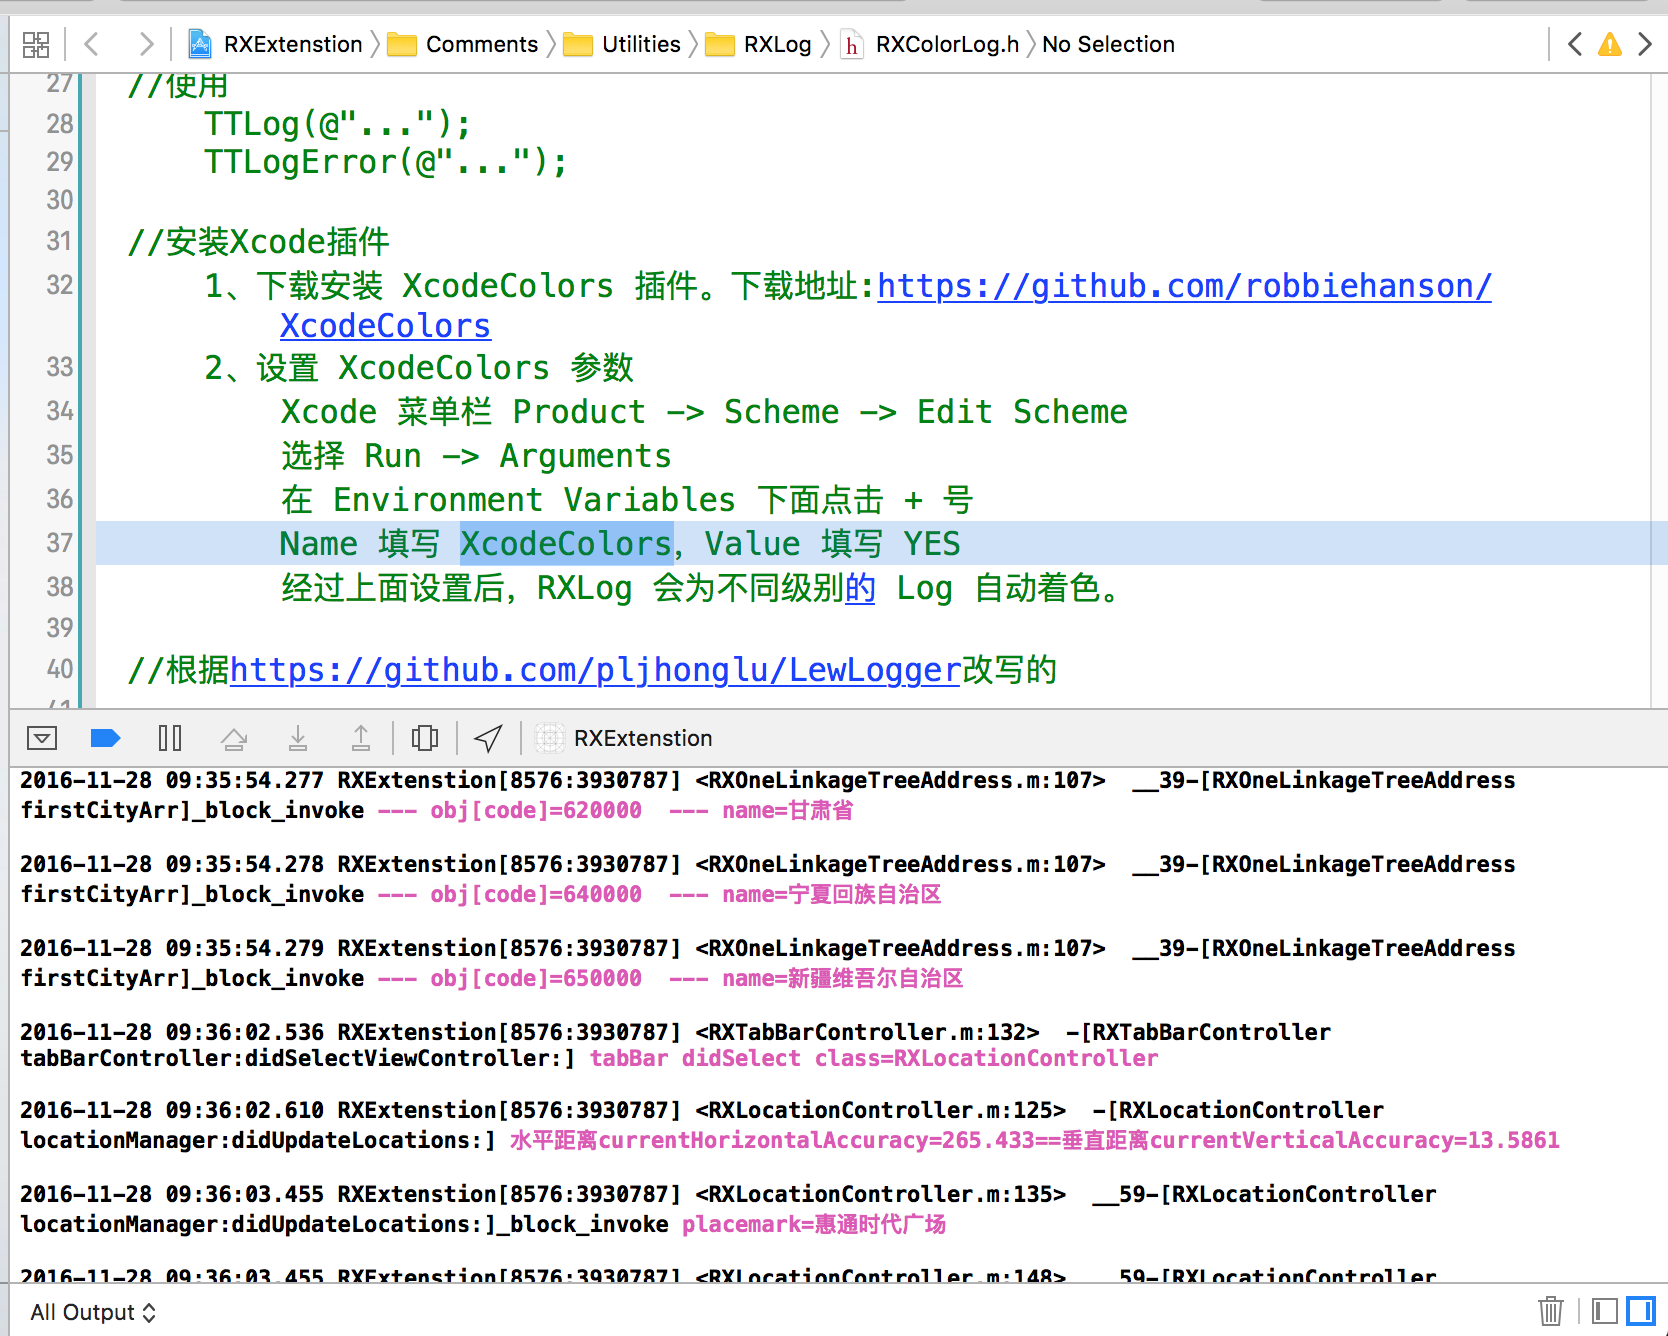
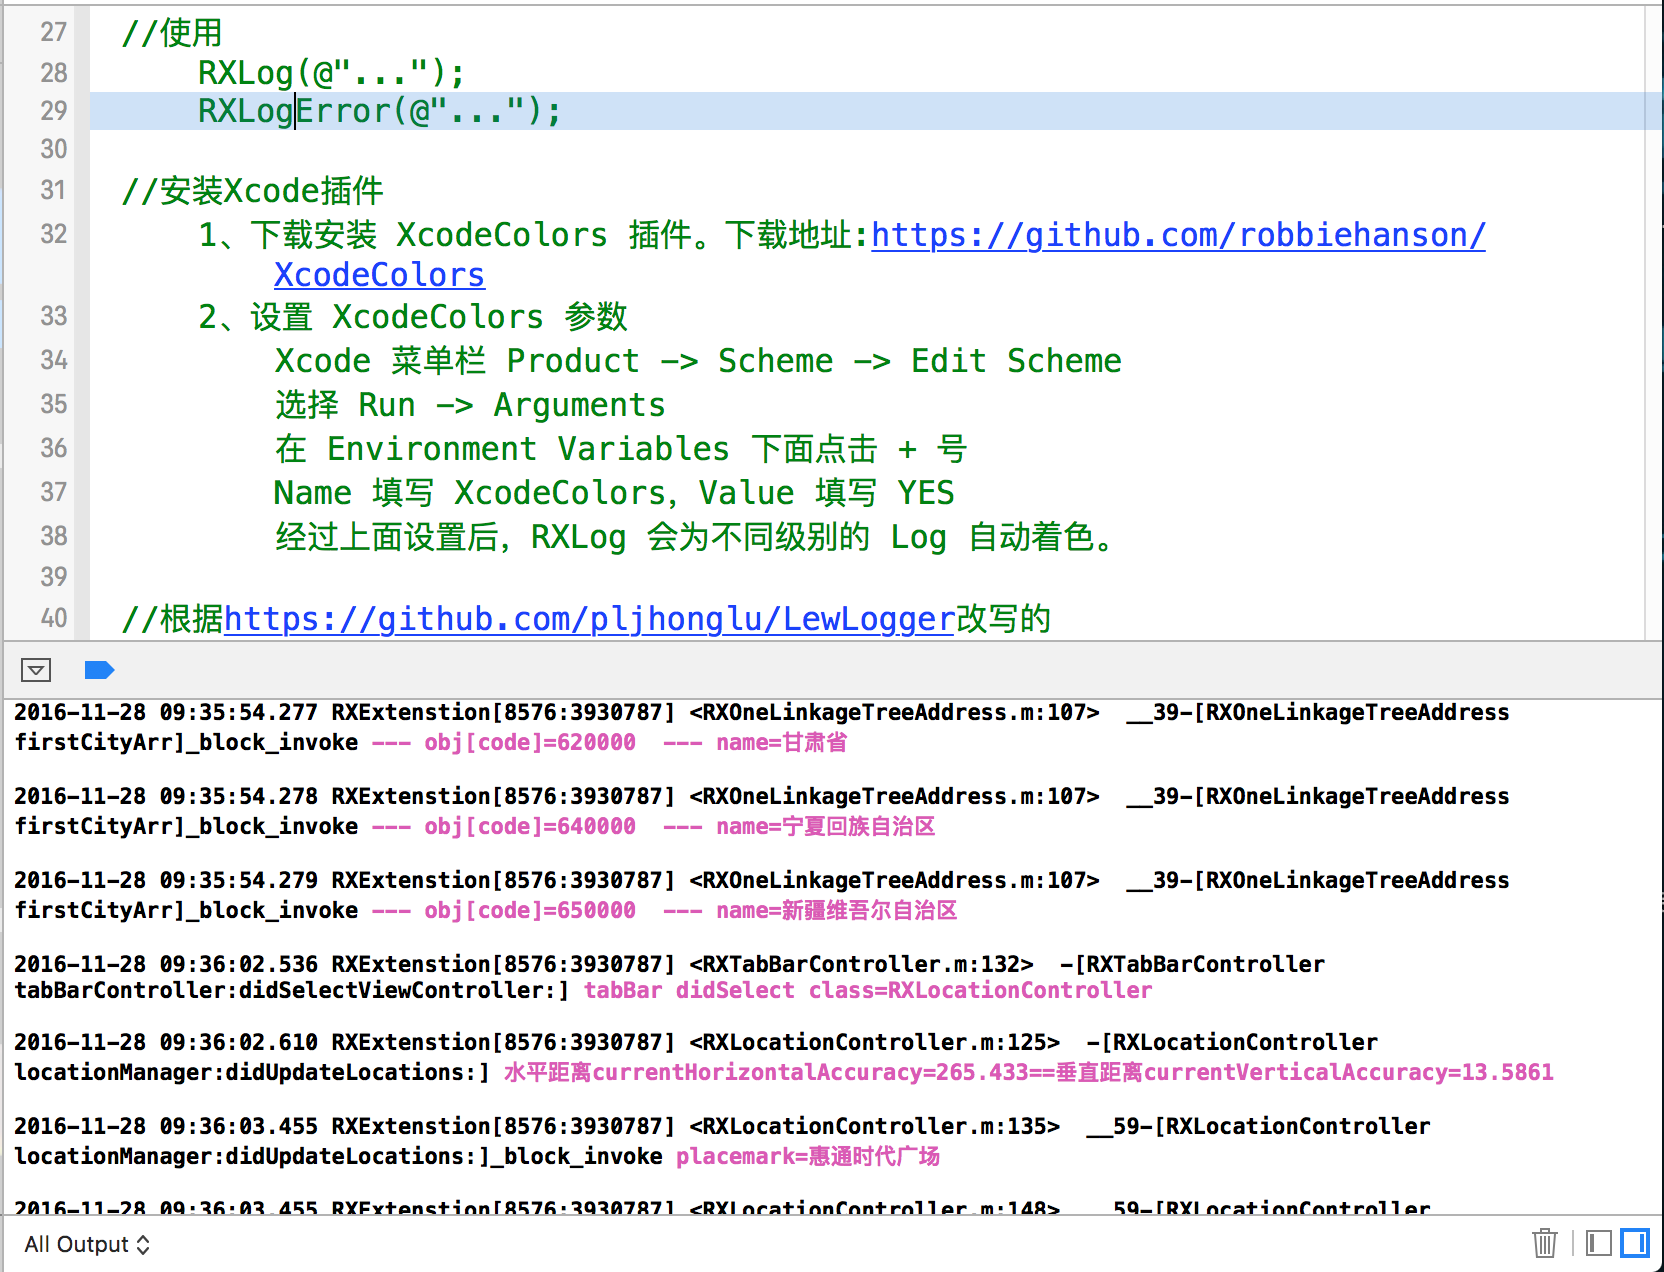
RXLog

Changed region(s): [[0.0, 0.0, 1.0, 1.0]]

diff --git a/RXExtenstion/Comments/Utilities/RXLog/RXColorLog.h b/RXExtenstion/Comments/Utilities/RXLog/RXColorLog.h
@@ -25,8 +25,8 @@
 
 /*
  //使用
-     TTLog(@"...");
-     TTLogError(@"...");
+     RXLog(@"...");
+     RXLogError(@"...");
  
  //安装Xcode插件
      1、下载安装 XcodeColors 插件。下载地址:https://github.com/robbiehanson/XcodeColors
